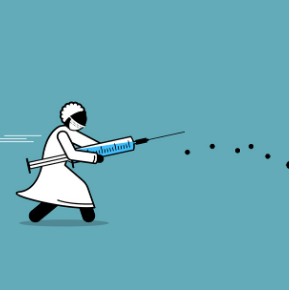
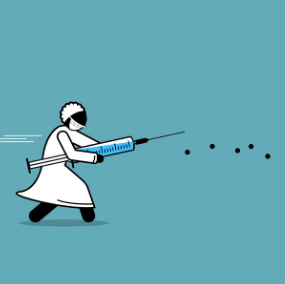
updates

diff --git a/index.html b/index.html
@@ -171,7 +171,7 @@
                                 <br>Designed and developed a more accurate method to predict goal count in soccer by using stochastic game dynamics.
                                 <br>
                                 <br><b>- Rolls-Royce North America | Data Science Intern</b>
-                                <br>Created and deployed an algorithm to identify when an AE3007 turbofan engine reaches its optimal compressor wash interval
+                                <br>Created and deployed an algorithm to identify when AE3007 turbofan engines reach their optimal compressor wash interval
                                 <br>
                                 <br><b>- LPL Financial Holdings Inc. | Information Security Intern</b>
                                 <br> Visualized and investigated data transfer cybersecurity risk from company 3rd party vendors
@@ -193,7 +193,7 @@
         <section id="featured" class="content-section">
             <div class="section-heading">
                 <h1>
-                    <em> Industry Experience + Projects<em>
+                    <em> Experience + Projects<em>
                 </h1>
             </div>
             <div class="section-content">
@@ -341,7 +341,7 @@
 
                     <div class="item">
                         <div class="image">
-                            <img src="images/job/babe_ruthv2.jpg" alt="">
+                            <img src="images/job/baseball.png" alt="">
                             <div class="featured-button button">
                                 <a href="https://adhvaith-vijay.shinyapps.io/cmsacamp-eda-project/">Continue Reading</a>
                             </div>
@@ -385,6 +385,58 @@
                             </p>
                             <p> On top of the analysis of vaccine rollout, I also used NLP to interpret the twitter sentiment surrounding different 
                                 COVID-19 vaccines, international politicians, and other global entities.            
+                            </p>
+                           
+                        </div>
+                    </div>
+
+                    <div class="item">
+                        <div class="image">
+                            <img src="images/job/nba_boys.png" alt="">
+                            <div class="featured-button button">
+                                <a href="https://nba-salary-predictor.herokuapp.com/">Continue Reading</a>
+                            </div>
+                           
+                        </div>
+                        <div class="text-content">
+                            <h4>Predicting 2021-2022 NBA Salaries</h4>
+                            <span> The Data Science Union <br> <a href="https://nba-salary-predictor.herokuapp.com/" target="_blank"
+                                rel="noopener noreferrer">
+                                Link </a> </span>
+                            <p>I worked on creating a salary predictor for NBA players. Using attributes like a player's position, age, turnover rate, 
+                                and games played we sought to find out how much a player might make in their next season of play.
+                            </p>
+                            <p>After using linear/polynomial regression, support vector machines, and random forest, I landed on using the gradient 
+                                boosted framework, XGBoost.
+                            </p>
+                            <p> I developed a web application, and built the final model by splitting data into Rookie/Veteran groups 
+                                and running gradient algorithms on different subgroups.           
+                            </p>
+                           
+                        </div>
+                    </div>
+
+                    <div class="item">
+                        <div class="image">
+                            <img src="images/job/firesv2.png" alt="">
+                            <div class="featured-button button">
+                                <a href="https://ucladatares.medium.com/an-investigation-of-the-california-wildfire-crisis-7104b1cb4a69">Continue Reading</a>
+                            </div>
+                           
+                        </div>
+                        <div class="text-content">
+                            <h4>Predicting 2021-2022 NBA Salaries</h4>
+                            <span> UCLA DataRes <br> <a href="https://ucladatares.medium.com/an-investigation-of-the-california-wildfire-crisis-7104b1cb4a69" target="_blank"
+                                rel="noopener noreferrer">
+                                Link </a> </span>
+                            <p>As project lead, I led a group of five others to create a comprehensive article for DataRes at UCLA.
+                            </p>
+                            <p>This article looks at California wildfire growth over the last decade, and the role climate change has 
+                                played in exacerbating the current wildfire crisis. 
+                            </p>
+                            <p> I employed a variety of geospatial python libraries in order to best capture the existing 
+                                patterns and characteristic attributes of California wildfires. All visualizations were created from 
+                                scratch using CAL FIRE data and APIs.     
                             </p>
                            
                         </div>
